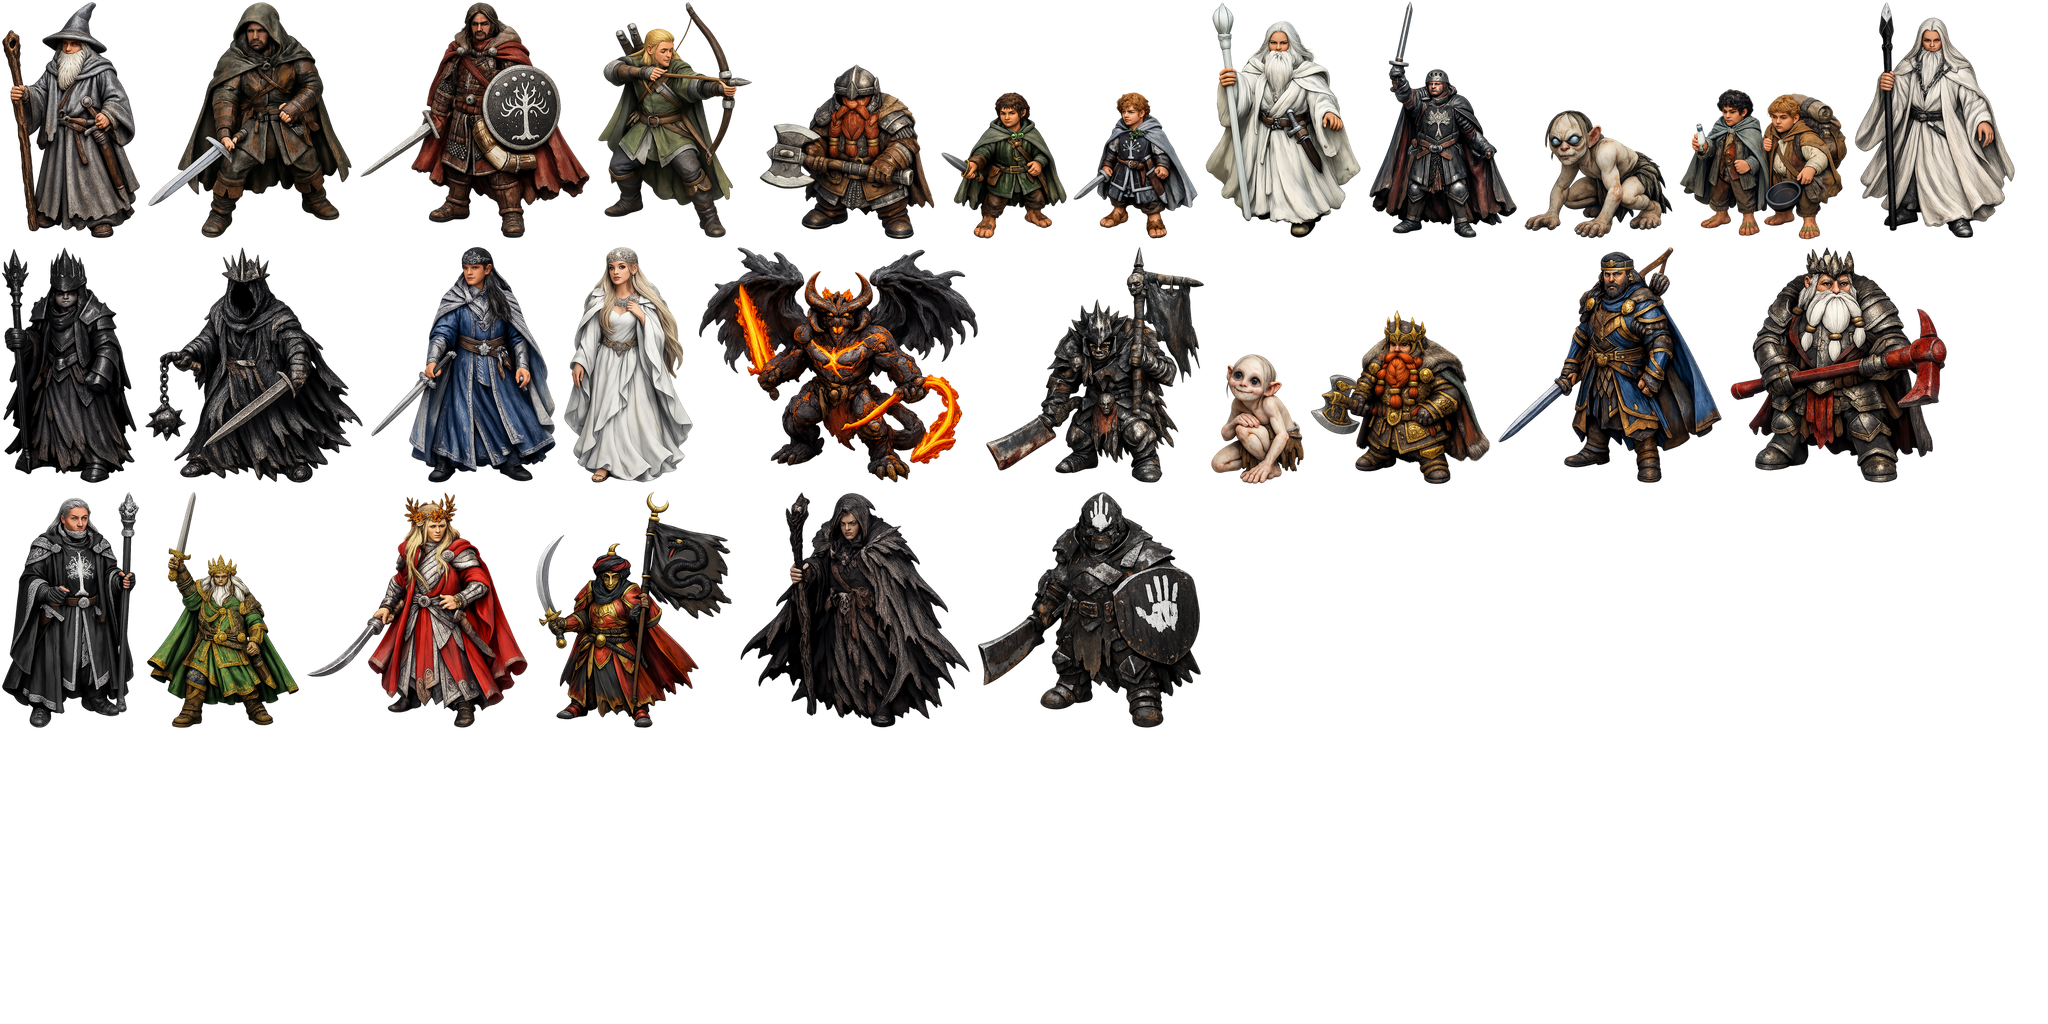
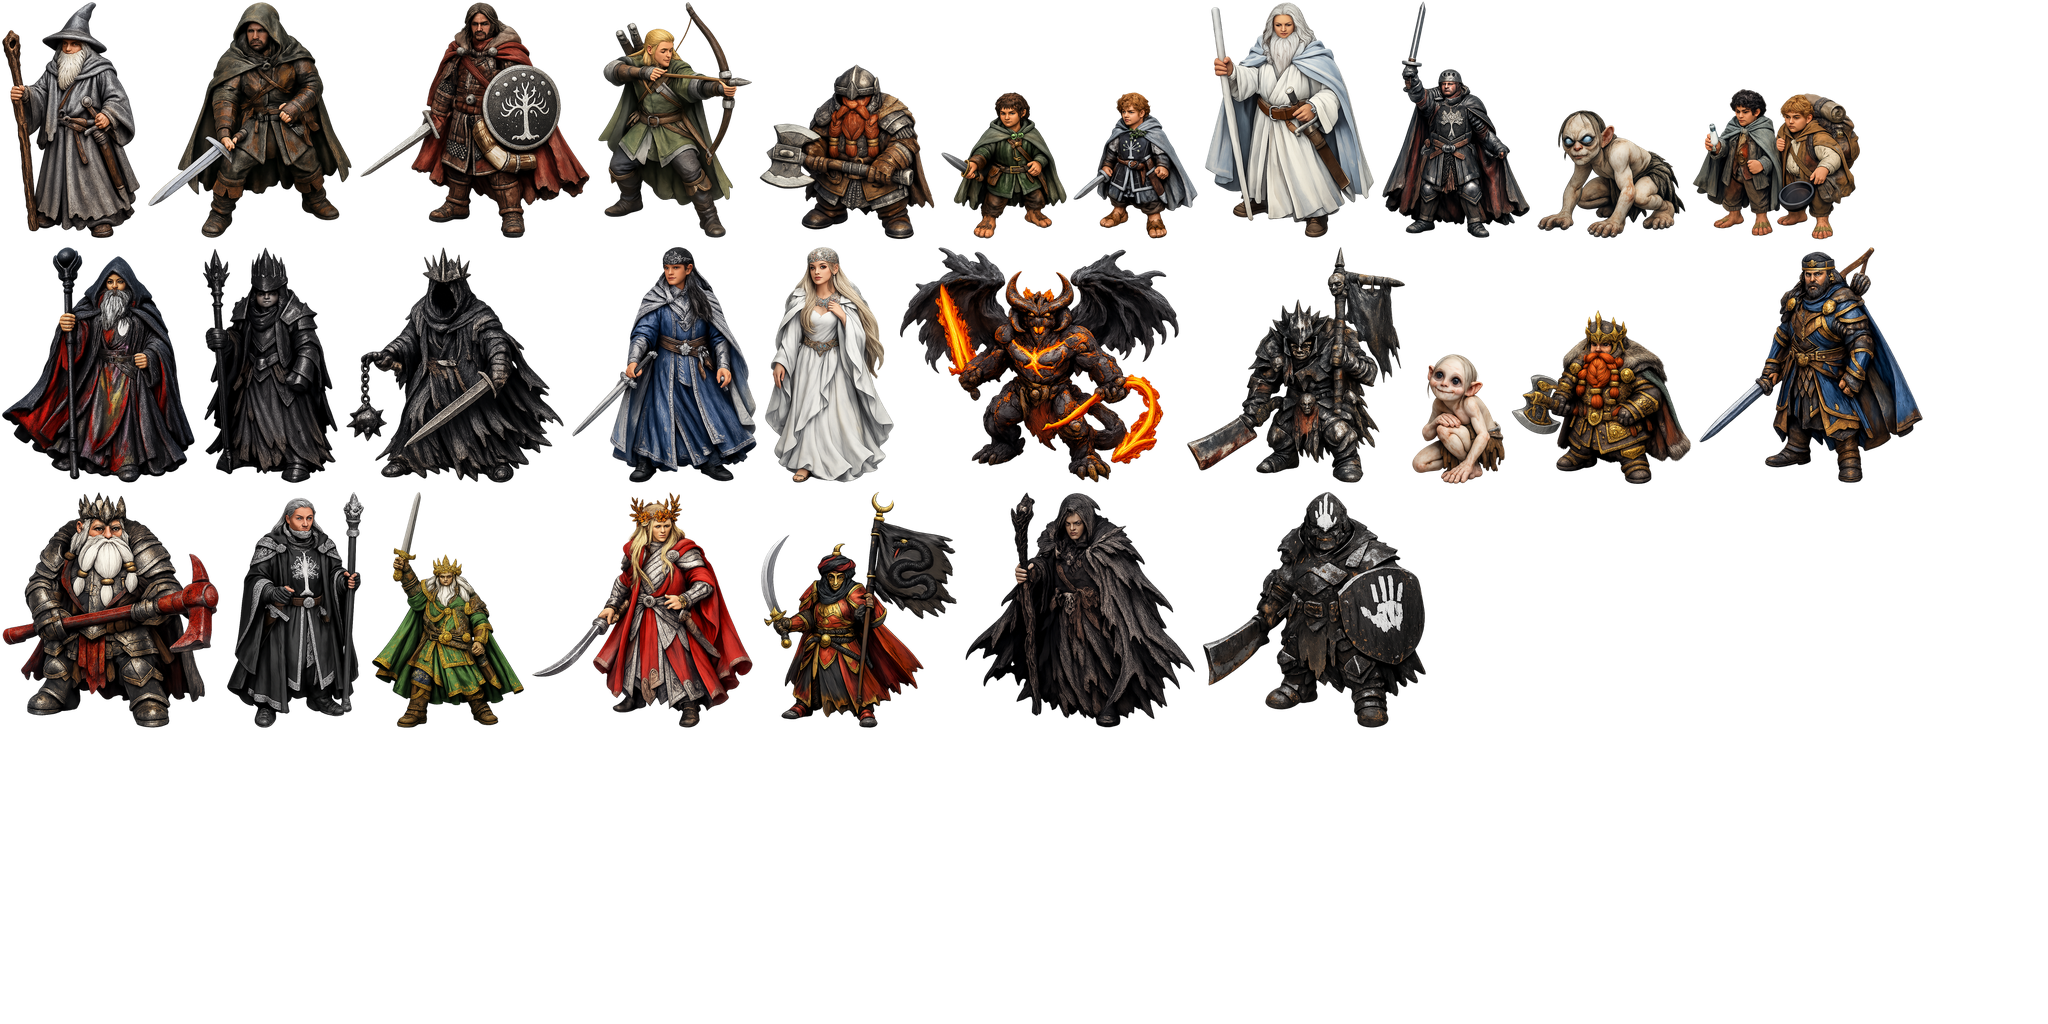
ART-11: Saruman and Gandalf the White told apart (owner, 2026-11-17)
"Saruman's and Gandalf the White's figures are too alike; rework them." Both wore white robes and a
white beard, so on the map only the staff told them apart. With the same generator, model and style as
the other figures:
- Saruman (Shadow): dark: a black cloak lined with crimson over robes of many colours, a white-and-grey
  beard, a small white-hand emblem, a black iron staff crowned with a dark orb.
- Gandalf the White (Free Peoples): bright: white robes under a pale silver-blue cloak, a plain white
  staff and a sword; no glow or outline, so no gold rim reads as a choice glow.
scripts/build_figure_art.py rebuilt characters-v1 (the other atlases unchanged; --check passes with the
pinned Pillow 12.3.0); ART-FIGURES records the new sources. The old pair and a first gold-haloed
Gandalf are kept in graphicalassets/figures/rejected. rc.10 notes say so.

Checks: build_figure_art.py --check PASS; PlayMode WizardFigureTests (new, picture art11-wizards
checked) and CharacterLayoutTests 2/2.

Changed region(s): [[0.0, 0.0, 1.0, 0.7188]]

diff --git a/unity/Wotr.Client/Assets/Wotr/Tests/PlayMode/WizardFigureTests.cs b/unity/Wotr.Client/Assets/Wotr/Tests/PlayMode/WizardFigureTests.cs
@@ -1,0 +1,35 @@
+using System.Collections;
+using NUnit.Framework;
+using UnityEngine;
+using UnityEngine.TestTools;
+using UnityEngine.UIElements;
+using Wotr.Client;
+using Wotr.Contracts;
+
+namespace Wotr.PlayTests
+{
+    // ART-11 (owner, 2026-11-17: "Saruman's and Gandalf the White's figures are too alike; rework them"): Saruman stands dark,
+    // in black and crimson with an iridescent robe and a black staff, Gandalf the White bright, in white under a pale
+    // silver-blue cloak with a white staff and a sword; side by side on the map they are told apart at a glance.
+    // Frame: art11-wizards.
+    public sealed class WizardFigureTests
+    {
+        [UnityTest]
+        public IEnumerator SarumanAndGandalfTheWhiteAreToldApartOnTheMap()
+        {
+            using var stage = new PresentedBoardStage(1366, 1f, false, Side.FreePeoples);
+            PresentedBoardStage.Character(stage.Before, "base.character.saruman", "base.character.saruman", Side.Shadow, "orthanc");
+            PresentedBoardStage.Character(stage.Before, "base.character.gandalf-white", "base.character.gandalf-white", Side.FreePeoples, "fangorn");
+            yield return stage.Ready();
+            var map = stage.Board.Map;
+            map.FocusOn((stage.Anchor("orthanc") + stage.Anchor("fangorn")) / 2, map.FitZoom * 3.2f);
+            for (var i = 0; i < 20; i++)
+                yield return null;
+            var saruman = map.CharacterMarker("base.character.saruman");
+            var gandalf = map.CharacterMarker("base.character.gandalf-white");
+            Assert.IsNotNull(saruman, "Saruman stands at Orthanc.");
+            Assert.IsNotNull(gandalf, "Gandalf the White stands in Fangorn.");
+            LayoutTests.Save(stage.Texture, "art11-wizards.png");
+        }
+    }
+}

diff --git a/graphicalassets/figures/README.md b/graphicalassets/figures/README.md
@@ -99,3 +99,25 @@ a gilded crowned helm, no actor likeness). `scripts/build_figure_art.py` now bui
 have raw images and lists the rest as `pending` in `docs/sources/ART-FIGURES.json` (the Lords and Kings characters,
 ART-06 and ART-07), instead of refusing to build.
 
+<a id="saruman-and-gandalf-the-white-told-apart--art-11-2026-11-17"></a>
+## Saruman and Gandalf the White told apart — ART-11 (2026-11-17)
+
+The owner: "Saruman's and Gandalf the White's figures are too alike; rework them". Both wore white robes with a white
+beard, so on the map only the staff told them apart.
+
+- **Saruman** (Shadow) is now unmistakably dark:
+  - a black cloak lined with crimson over robes of many colours (iridescent violet, crimson and green);
+  - a white-and-grey beard and a small white-hand emblem;
+  - a black iron staff crowned with a dark orb.
+- **Gandalf the White** (Free Peoples) is unmistakably bright:
+  - shining white robes under a pale silver-blue cloak;
+  - a plain white staff and a sword.
+
+  He has no glow or outline, so no gold rim is mistaken for a choice glow.
+- **Generation.** Both were made with the same generator, model and style as the other figures ([prompts](v3/prompts.json),
+  [journal](v3/generations.jsonl)), and `scripts/build_figure_art.py` rebuilt `characters-v1`. The other atlases are
+  unchanged (`--check` passes with the pinned Pillow 12.3.0).
+- **Rejected** (in `rejected/`):
+  - `saruman-white-robes`, `gandalf-white-like-saruman`: the old pair;
+  - `gandalf-white-gold-halo`: a first new Gandalf with a gold halo around the figure.
+- **Check.** PlayMode `WizardFigureTests` sets both on the map near Orthanc (frame `art11-wizards`).

diff --git a/release/notes/0.11.0-rc.10.md b/release/notes/0.11.0-rc.10.md
@@ -1,3 +1,4 @@
 - Fixed: tokens on the Politics track and the Ring on the Corruption and Fellowship tracks now always move smoothly, whatever caused the change (Wisdom of Elrond included), also when the panel was closed at the time.
 - Changed: the waiting room no longer offers a demo against the CPU; click Ready, then Start game.
 - Fixed: when you choose companions from the Fellowship, the chosen ones now stand out clearly (a bright frame and a ✓), while the others still glow.
+- Changed: Saruman's and Gandalf the White's figures no longer look alike: Saruman is dark, in black and crimson, Gandalf the White bright, in white and pale blue.
